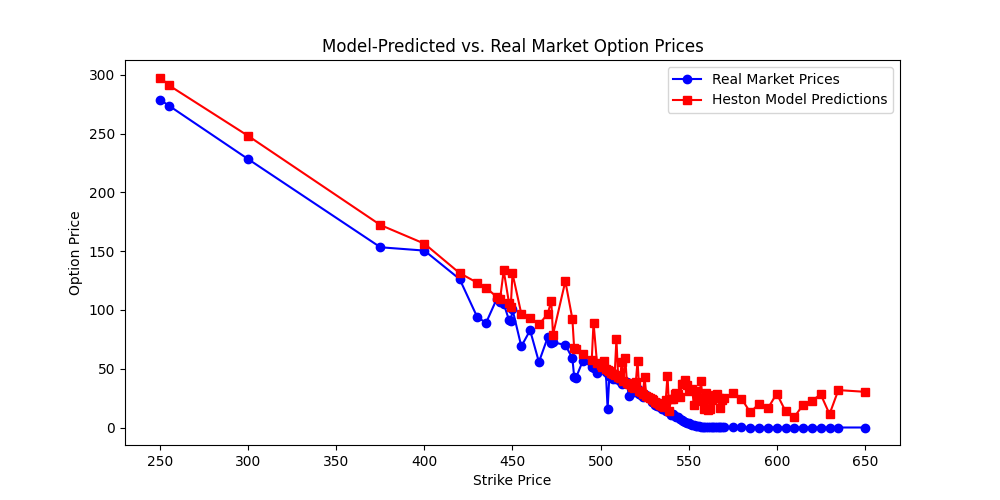
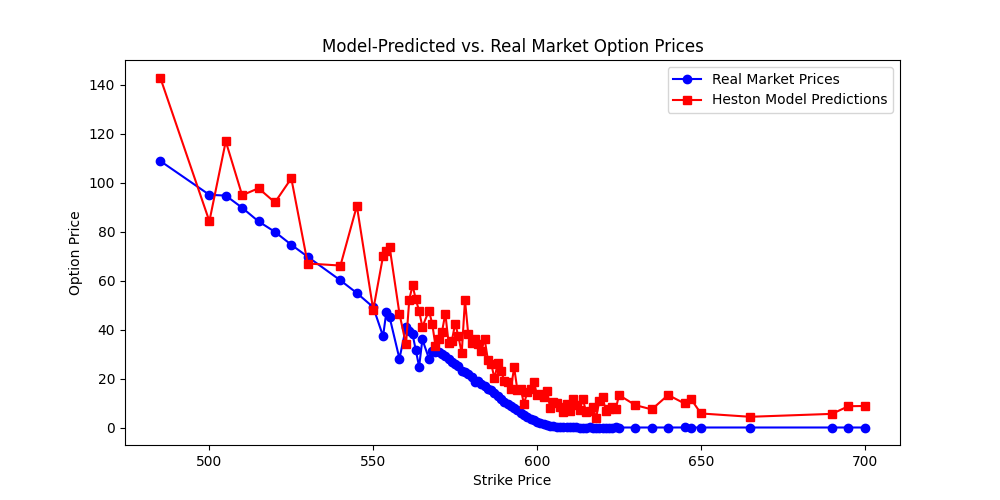
Add files via upload

diff --git a/heston_model_neural.py b/heston_model_neural.py
@@ -1,14 +1,12 @@
 import numpy as np
 import scipy
-from scipy.stats import norm
 import matplotlib.pyplot as plt
 from datetime import datetime
-import tensorflow as tf
-from tensorflow.python.keras.models import Sequential
-from tensorflow.python.keras.layers import Dense
-from tensorflow.python.keras.optimizers import adam_v2
+from tensorflow.keras.models import Sequential
+from tensorflow.keras.layers import Dense
+from tensorflow.keras.optimizers import Adam
 import yfinance as yf
-import pandas as pd
+from sklearn.metrics import mean_squared_error, mean_absolute_error, r2_score
 
 # Starting time, used for potential optimisation in the future
 startTime = datetime.now()
@@ -66,7 +64,7 @@ def neural_model_train(X_train, Y_train):
     neural_model = Sequential([Dense(64, activation = 'relu', input_shape = (1,)), Dense(64, activation = 'relu'), Dense(4, activation = 'linear')])
 
     # Compiling the model with Adam optimizer and a standard MSE loss function, fixed learning rate 
-    neural_model.compile(optimizer = adam_v2.Adam(learning_rate = 0.001), loss = 'mse')
+    neural_model.compile(optimizer = Adam(learning_rate = 0.001), loss = 'mse')
 
     # Training the model and storing training history
     history = neural_model.fit(X_train, Y_train, epochs = 100, batch_size = 32, verbose = 1)
@@ -179,7 +177,7 @@ def training_data_generator(n_samples, S0, strikes,  mu, implied_vol ):
     # Time to maturity, timestep size and Monte Carlo runs
     T  = T_real
     dt = timestep
-    monte_runs = 50
+    monte_runs = 100
 
     # Generate option prices using Heston model for above parameter set
     option_prices = np.array([heston_model_montecarlo(T, dt, monte_runs, S0, mu, K = strike,  kappa = k, theta = t, epsilon = e, rho = r, v0 = v) for strike, k, t, e, r, v in zip(strikes, kappa, theta, epsilon, rho, implied_vol)])
@@ -212,6 +210,16 @@ predicted_prices = np.array([
 # Check runtime for future optimization
 print("Runtime", datetime.now() - startTime) 
 
+# Evaluate model performance
+rmse = np.sqrt(mean_squared_error(market_prices, predicted_prices))
+mae = mean_absolute_error(market_prices, predicted_prices)
+r2 = r2_score(market_prices, predicted_prices)
+
+print(f"\nPerformance Metrics:")
+print(f"Root Mean Squared Error (RMSE): {rmse:.4f}")
+print(f"Mean Absolute Error (MAE): {mae:.4f}")
+print(f"R-squared (R²): {r2:.4f}")
+
 # Plot and save Model-Predicted vs. Real Market Prices
 plt.figure(figsize = (10, 5))
 plt.plot(strikes, market_prices, 'o-', label = "Real Market Prices", color='blue')
@@ -220,6 +228,6 @@ plt.xlabel("Strike Price")
 plt.ylabel("Option Price")
 plt.legend()
 plt.title("Model-Predicted vs. Real Market Option Prices")
-plt.savefig("Heston_neural.png")
+plt.savefig("Heston_neural2.png")
 plt.show()
 
